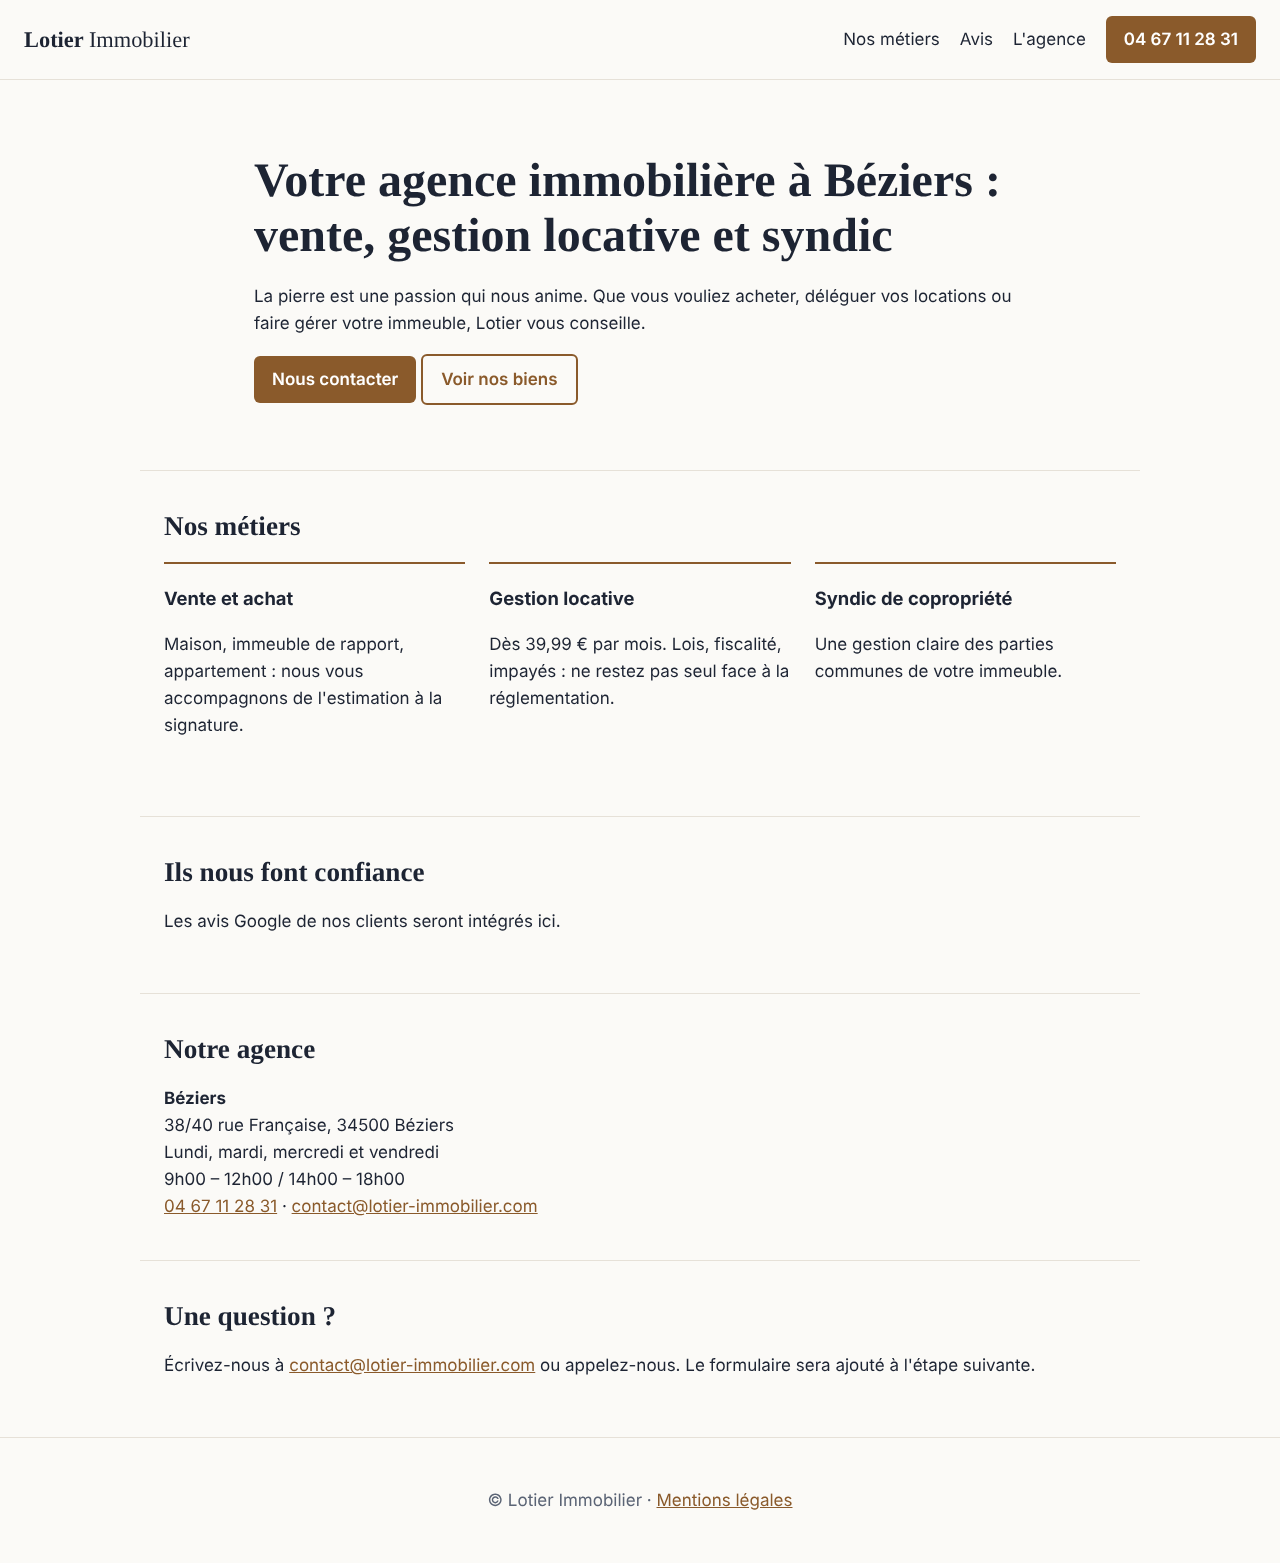
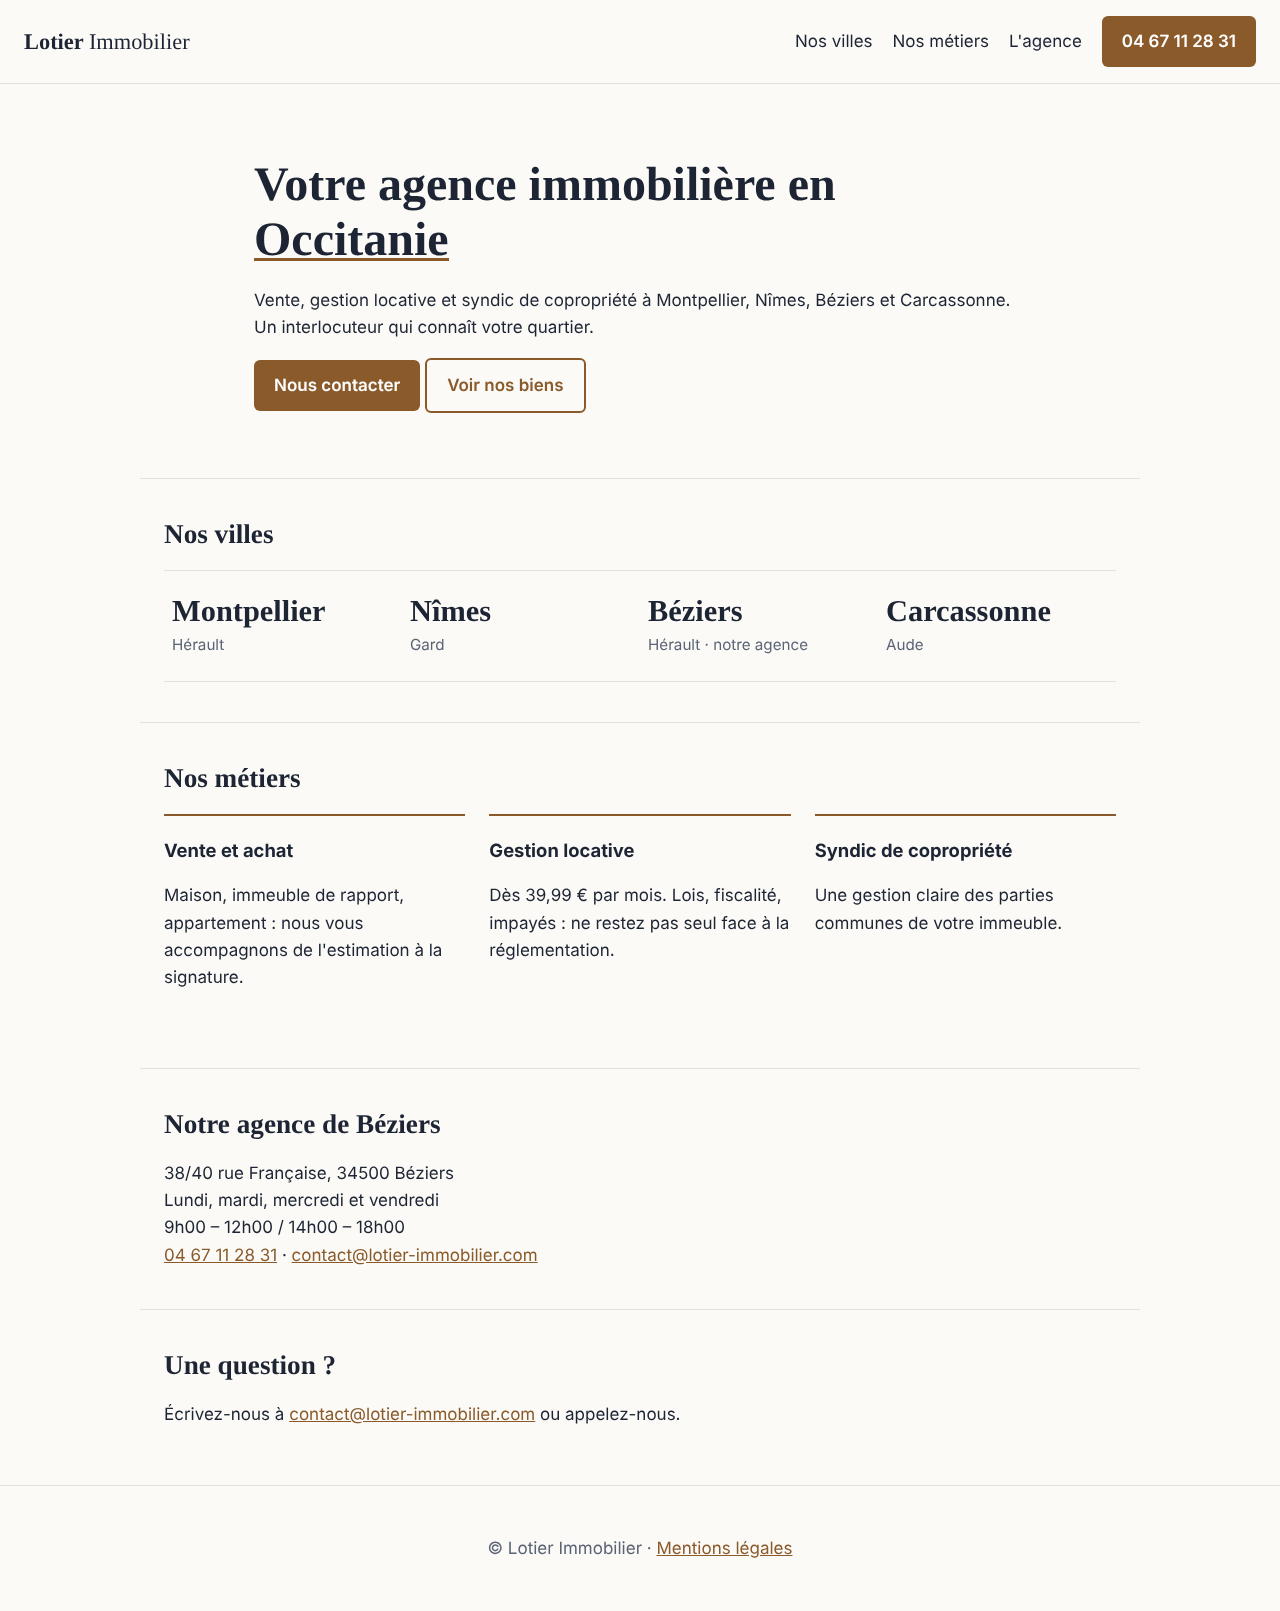
v2 : positionnement Occitanie (Montpellier, Nîmes, Béziers, Carcassonne)
Claude-Session: https://claude.ai/code/session_01TzcMvG71Akyh4Rk4xsxEo2

diff --git a/v2/index.html b/v2/index.html
@@ -3,16 +3,16 @@
 <head>
 <meta charset="utf-8">
 <meta name="viewport" content="width=device-width, initial-scale=1">
-<title>Lotier Immobilier Béziers | Vente, Gestion locative, Syndic</title>
-<meta name="description" content="Agence immobilière à Béziers : vente, gestion locative dès 39,99 €/mois et syndic de copropriété. Un conseiller à votre écoute. Appelez le 04 67 11 28 31.">
+<title>Lotier Immobilier | Agence immobilière en Occitanie</title>
+<meta name="description" content="Agence immobilière en Occitanie : vente, gestion locative et syndic à Montpellier, Nîmes, Béziers et Carcassonne. Appelez le 04 67 11 28 31.">
 <link rel="canonical" href="https://www.lotier-immobilier.com/v2/">
 <meta name="robots" content="noindex, nofollow"><!-- version de test : retirer à la mise en ligne -->
 <meta property="og:type" content="website">
-<meta property="og:title" content="Lotier Immobilier – Agence à Béziers">
-<meta property="og:description" content="Vente, gestion locative et syndic de copropriété à Béziers.">
+<meta property="og:title" content="Lotier Immobilier – Agence en Occitanie">
+<meta property="og:description" content="Vente, gestion locative et syndic à Montpellier, Nîmes, Béziers et Carcassonne.">
 <link rel="stylesheet" href="style.css">
 <script type="application/ld+json">
-{"@context":"https://schema.org","@type":"RealEstateAgent","name":"Lotier Immobilier","url":"https://www.lotier-immobilier.com/","telephone":"+33467112831","email":"contact@lotier-immobilier.com","address":{"@type":"PostalAddress","streetAddress":"38/40 rue Française","postalCode":"34500","addressLocality":"Béziers","addressCountry":"FR"},"openingHoursSpecification":[{"@type":"OpeningHoursSpecification","dayOfWeek":["Monday","Tuesday","Wednesday","Friday"],"opens":"09:00","closes":"12:00"},{"@type":"OpeningHoursSpecification","dayOfWeek":["Monday","Tuesday","Wednesday","Friday"],"opens":"14:00","closes":"18:00"}]}
+{"@context":"https://schema.org","@type":"RealEstateAgent","name":"Lotier Immobilier","url":"https://www.lotier-immobilier.com/","telephone":"+33467112831","email":"contact@lotier-immobilier.com","address":{"@type":"PostalAddress","streetAddress":"38/40 rue Française","postalCode":"34500","addressLocality":"Béziers","addressCountry":"FR"},"areaServed":[{"@type":"City","name":"Montpellier"},{"@type":"City","name":"Nîmes"},{"@type":"City","name":"Béziers"},{"@type":"City","name":"Carcassonne"}],"openingHoursSpecification":[{"@type":"OpeningHoursSpecification","dayOfWeek":["Monday","Tuesday","Wednesday","Friday"],"opens":"09:00","closes":"12:00"},{"@type":"OpeningHoursSpecification","dayOfWeek":["Monday","Tuesday","Wednesday","Friday"],"opens":"14:00","closes":"18:00"}]}
 </script>
 </head>
 <body>
@@ -20,17 +20,27 @@
 <header class="top">
   <a class="brand" href="./">Lotier <span>Immobilier</span></a>
   <nav aria-label="Navigation principale">
+    <a href="#villes">Nos villes</a>
     <a href="#metiers">Nos métiers</a>
-    <a href="#avis">Avis</a>
     <a href="#agence">L'agence</a>
     <a class="btn" href="tel:+33467112831">04 67 11 28 31</a>
   </nav>
 </header>
 <main id="contenu">
   <section class="hero">
-    <h1>Votre agence immobilière à Béziers : vente, gestion locative et syndic</h1>
-    <p>La pierre est une passion qui nous anime. Que vous vouliez acheter, déléguer vos locations ou faire gérer votre immeuble, Lotier vous conseille.</p>
+    <h1>Votre agence immobilière en <em>Occitanie</em></h1>
+    <p>Vente, gestion locative et syndic de copropriété à Montpellier, Nîmes, Béziers et Carcassonne.</p>
     <p><a class="btn" href="#contact">Nous contacter</a> <a class="btn ghost" href="https://www.lotier-immobilier.com/nos-biens/">Voir nos biens</a></p>
+  </section>
+
+  <section id="villes" class="wrap">
+    <h2>Nos villes</h2>
+    <ul class="cities">
+      <li><a href="#contact"><span class="n">Montpellier</span><span class="d">Hérault</span></a></li>
+      <li><a href="#contact"><span class="n">Nîmes</span><span class="d">Gard</span></a></li>
+      <li><a href="#contact"><span class="n">Béziers</span><span class="d">Hérault · notre agence</span></a></li>
+      <li><a href="#contact"><span class="n">Carcassonne</span><span class="d">Aude</span></a></li>
+    </ul>
   </section>
 
   <section id="metiers" class="wrap">
@@ -42,15 +52,9 @@
     </div>
   </section>
 
-  <section id="avis" class="wrap">
-    <h2>Ils nous font confiance</h2>
-    <p>Les avis Google de nos clients seront intégrés ici.</p>
-  </section>
-
   <section id="agence" class="wrap">
-    <h2>Notre agence</h2>
+    <h2>Notre agence de Béziers</h2>
     <address>
-      <strong>Béziers</strong><br>
       38/40 rue Française, 34500 Béziers<br>
       Lundi, mardi, mercredi et vendredi<br>
       9h00 – 12h00 / 14h00 – 18h00<br>
@@ -60,7 +64,7 @@
 
   <section id="contact" class="wrap">
     <h2>Une question ?</h2>
-    <p>Écrivez-nous à <a href="mailto:contact@lotier-immobilier.com">contact@lotier-immobilier.com</a> ou appelez-nous. Le formulaire sera ajouté à l'étape suivante.</p>
+    <p>Écrivez-nous à <a href="mailto:contact@lotier-immobilier.com">contact@lotier-immobilier.com</a> ou appelez-nous.</p>
   </section>
 </main>
 <footer>

diff --git a/v2/style.css b/v2/style.css
@@ -4,17 +4,28 @@ body{margin:0;font:17px/1.6 system-ui,-apple-system,"Segoe UI",sans-serif;color:
 a{color:var(--accent)}
 .skip{position:absolute;left:-999px}.skip:focus{left:8px;top:8px;background:#fff;padding:8px}
 .top{display:flex;justify-content:space-between;align-items:center;gap:16px;padding:16px 24px;border-bottom:1px solid var(--line);flex-wrap:wrap}
-.brand{font:700 1.4rem Georgia,serif;color:var(--ink);text-decoration:none}.brand span{font-weight:400}
+.brand{font:600 1.4rem Georgia,serif;color:var(--ink);text-decoration:none}.brand span{font-weight:400}
 nav{display:flex;gap:20px;align-items:center;flex-wrap:wrap}nav a{text-decoration:none;color:var(--ink)}
-.btn{display:inline-block;background:var(--accent);color:#fff;padding:10px 18px;border-radius:6px;text-decoration:none;font-weight:600}
+.btn{display:inline-block;background:var(--accent);color:#fff;padding:12px 20px;border-radius:6px;text-decoration:none;font-weight:600}
 nav a.btn{color:#fff}
 .btn.ghost{background:transparent;color:var(--accent);border:2px solid var(--accent)}
 .hero{max-width:820px;margin:0 auto;padding:72px 24px 48px}
-h1{font:700 clamp(2rem,5vw,3rem)/1.15 Georgia,serif;margin:0 0 20px}
+h1{font:600 clamp(2rem,5vw,3rem)/1.15 Georgia,serif;margin:0 0 20px}
 .wrap{max-width:1000px;margin:0 auto;padding:40px 24px;border-top:1px solid var(--line)}
-h2{font:700 1.7rem Georgia,serif;margin:0 0 20px}
+h2{font:600 1.7rem Georgia,serif;margin:0 0 20px}
 .cards{display:grid;grid-template-columns:repeat(auto-fit,minmax(240px,1fr));gap:24px}
 .cards article{padding:20px 0;border-top:2px solid var(--accent)}
 h3{margin:0 0 8px;font-size:1.15rem}
 address{font-style:normal}
 footer{padding:32px 24px;color:var(--muted);border-top:1px solid var(--line);text-align:center}
+
+h1 em{font-style:normal;background:linear-gradient(var(--accent),var(--accent)) 0 92%/100% 3px no-repeat}
+.cities{list-style:none;margin:0;padding:0;display:grid;grid-template-columns:repeat(auto-fit,minmax(220px,1fr));gap:0;border-top:1px solid var(--line)}
+.cities li{border-bottom:1px solid var(--line)}
+.cities a{display:flex;flex-direction:column;gap:4px;padding:24px 8px;text-decoration:none;color:var(--ink);transition:background-color .15s ease}
+.cities a:hover{background:#f1ece2}
+.cities .n{font:600 1.9rem/1.1 Georgia,serif}
+.cities .d{color:var(--muted);font-size:.95rem}
+a:focus-visible,.btn:focus-visible{outline:3px solid var(--ink);outline-offset:3px}
+.btn{transition:background-color .15s ease}.btn:hover{background:#6f4721}.btn.ghost:hover{background:#f1ece2}
+@media(max-width:640px){nav a:not(.btn){display:none}.top{padding:12px 16px}.hero{padding:48px 16px 32px}.wrap{padding:32px 16px}}
